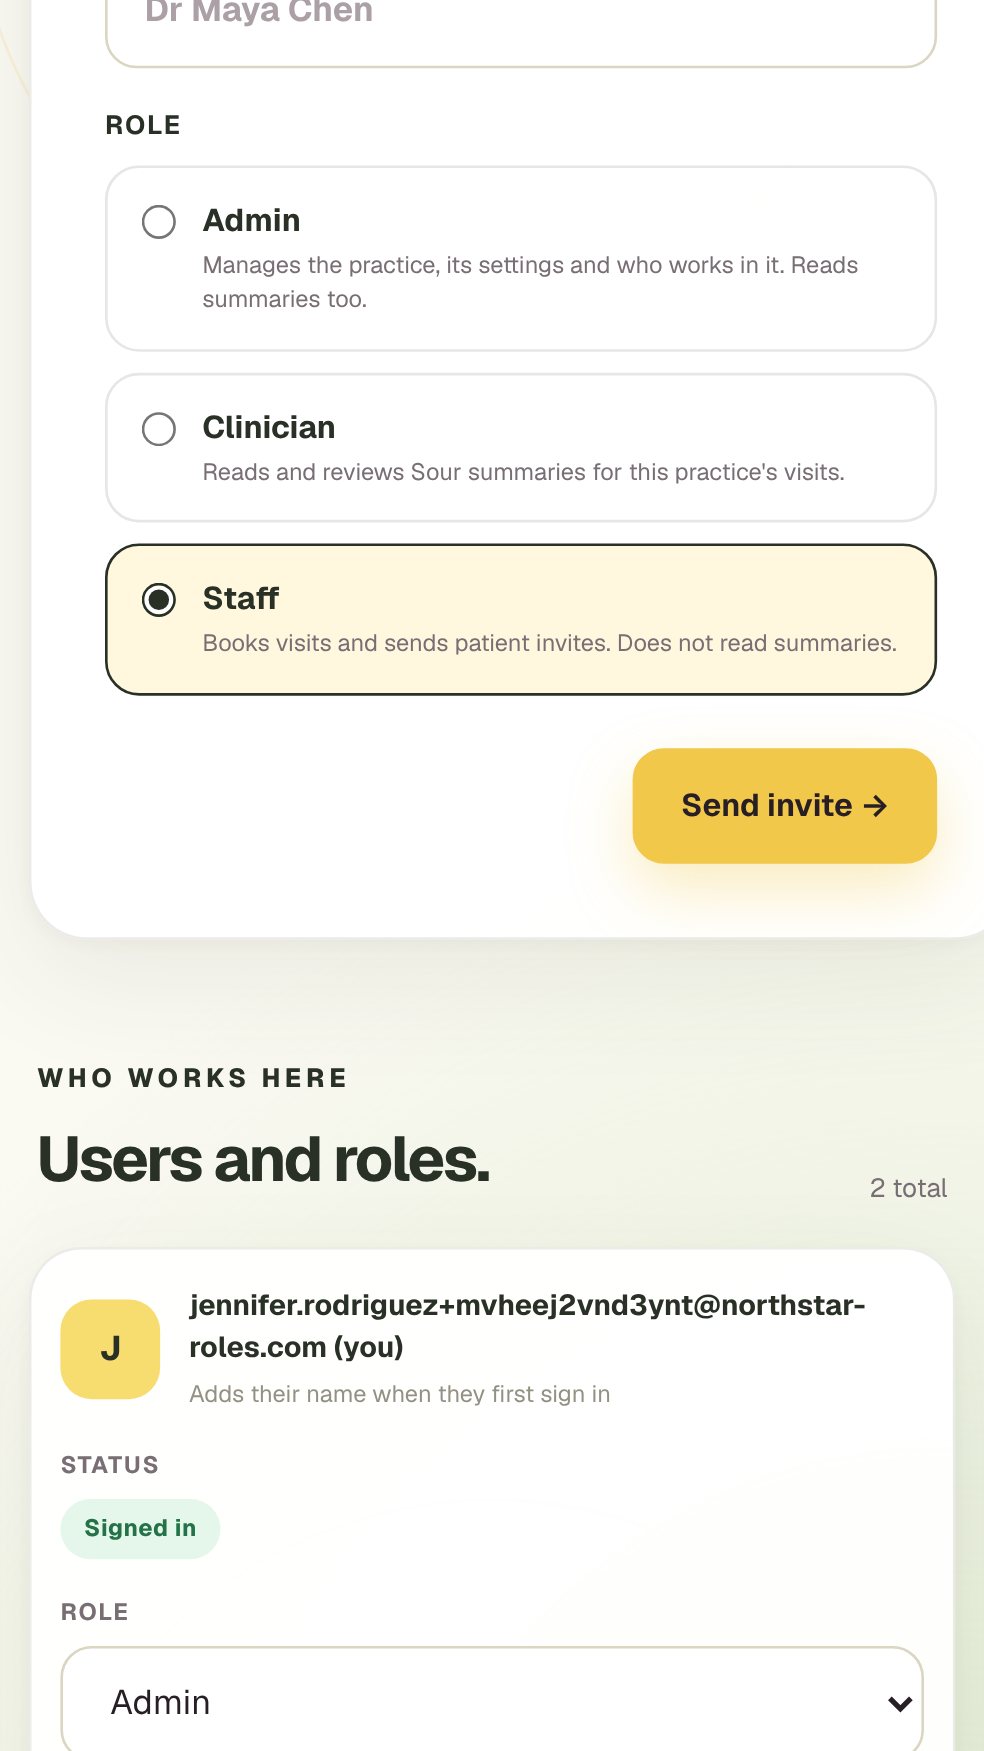
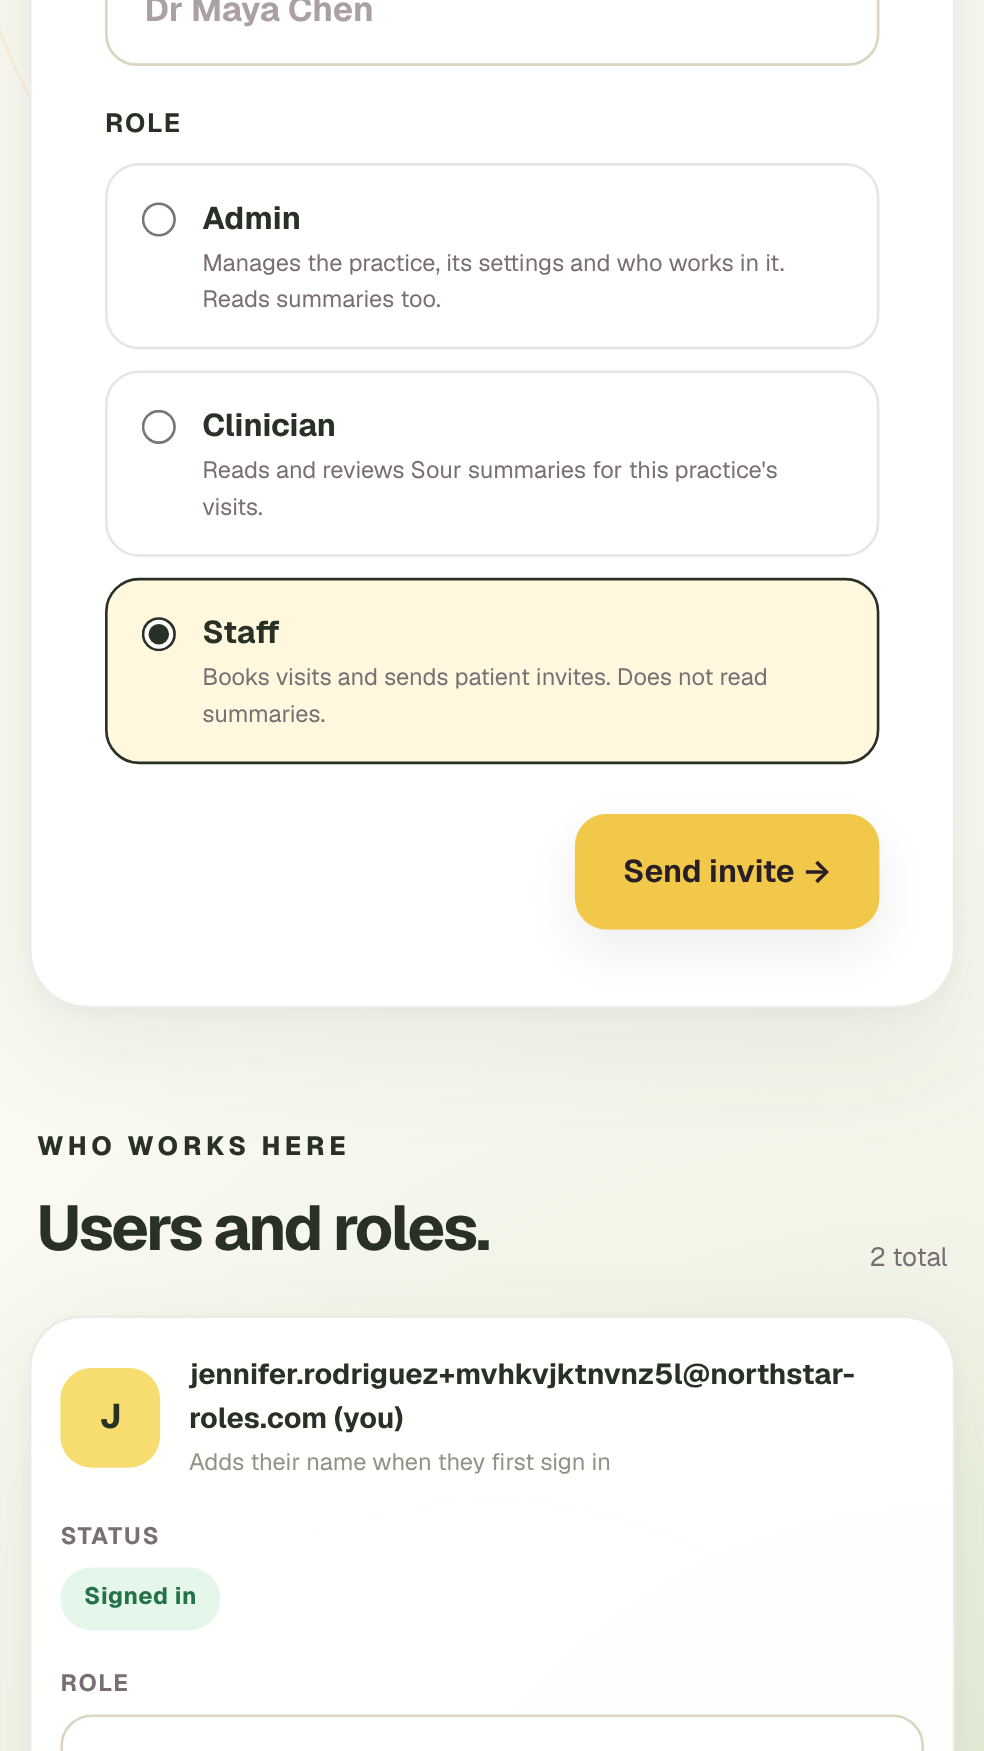
Review T101: the invite card is as wide as the address it reads back
T101 bounded the heading that is a pending user's whole email, and its own
hand-off named the element it had left alone: `form.ss-card.settings-card`,
reaching past the 375px viewport and clipped in silence by `.ss-page`'s
overflow: hidden. That is the same bug one element over, on the same page
(design §6.5, §2.1).

The cause is the success notice, which reads the address back — "Invited
<address>. They can sign in with that address now." — and `.ss-error`,
`.ss-notice` and `.ss-success` had nothing bounding it. An address is one
unbreakable token, so the notice's min-content width became the card's, and a
grid item cannot shrink below min-content: *both* settings cards were laid out
393px wide on a 375px screen, with the difference cut off and nothing on screen
to say so.

`overflow-wrap: anywhere` on the three notice classes, for the reason the row
heading takes it: only `anywhere` lowers the box's own min-content width, which
is the measurement the card is laid out from.

And the assertion that was missing, since neither of the page's width checks
could see this — the document never moves (overflow: hidden) and the card is
not a scroller. `expectBlockOnScreen` from T102 measures boxes, so pointing it
at `.settings-grid` holds both cards and everything in them to the viewport.
Without the CSS, --project=mobile:

  Error: the practice settings cards: parts of it are off to one side,
  reachable only by scrolling sideways (T102, design §6.5)
[…]

diff --git a/e2e/roles.spec.ts b/e2e/roles.spec.ts
@@ -176,6 +176,13 @@ test("an admin invites a colleague, sets the practice up, and the invited role i
   // first so it is the one a reader is handed. expectTextIntact runs at both widths — §6.5 is the phone's,
   // but a heading over its cell is wrong at any width, and desktop is where this page was already right.
   await expectTextIntact(page, ".settings-users tbody tr", "the users table on practice settings");
+  // And the card the invite was sent from, which was T101's bug one element over. The success notice reads
+  // the address back — "Invited <email>. They can sign in with that address now." — and an address is one
+  // unbreakable token, so with nothing bounding it the notice's min-content width became the card's: the
+  // form measured 384px against a 375px screen and `.ss-page`'s overflow: hidden cut the difference off in
+  // silence. Neither of this page's other width checks can see that, because the document never moves and
+  // the card is not a scroller; a box measured against the viewport can.
+  await expectBlockOnScreen(page, ".settings-grid", "the practice settings cards");
   await expectSettingsFitsAPhone(page);
   await shot(page, "provider-settings");
   // The table framed rather than wherever it happens to fall: on a phone the invite form above it is a

diff --git a/app/globals.css b/app/globals.css
@@ -506,6 +506,14 @@ textarea.ss-input {
 .ss-error,
 .ss-notice,
 .ss-success {
+  /* These notices quote back what the person just typed, and on practice settings that is an email address
+     (§2.1): "Invited <address>. They can sign in with that address now." An address is one unbreakable
+     token, so unbounded it set the notice's min-content width — and the card is a grid item, which cannot
+     shrink below it, so both settings cards were laid out 393px wide on a 375px screen and `.ss-page`'s
+     overflow: hidden cut the difference off with nothing to say so. `anywhere` rather than `break-word` for
+     the reason the row heading above takes it (T101): only `anywhere` lowers the box's own min-content
+     width, which is the measurement the card is laid out from. */
+  overflow-wrap: anywhere;
   padding: 11px 14px;
   border: 1px solid #f0bec9;
   border-radius: 12px;
